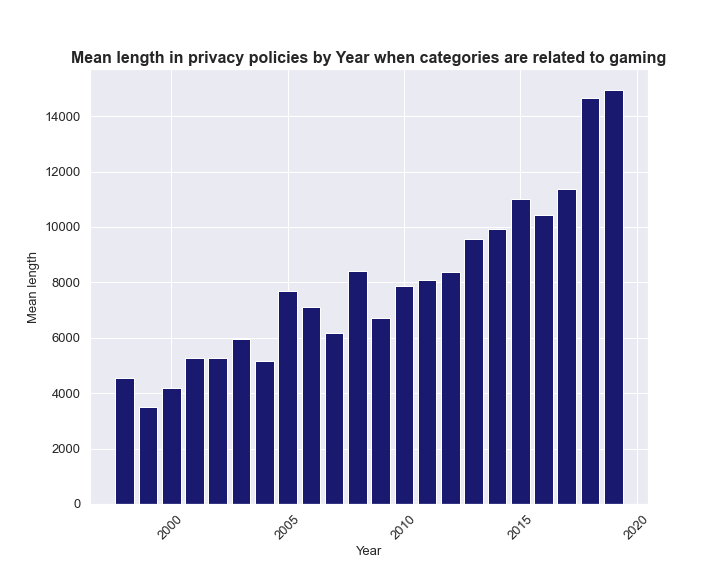
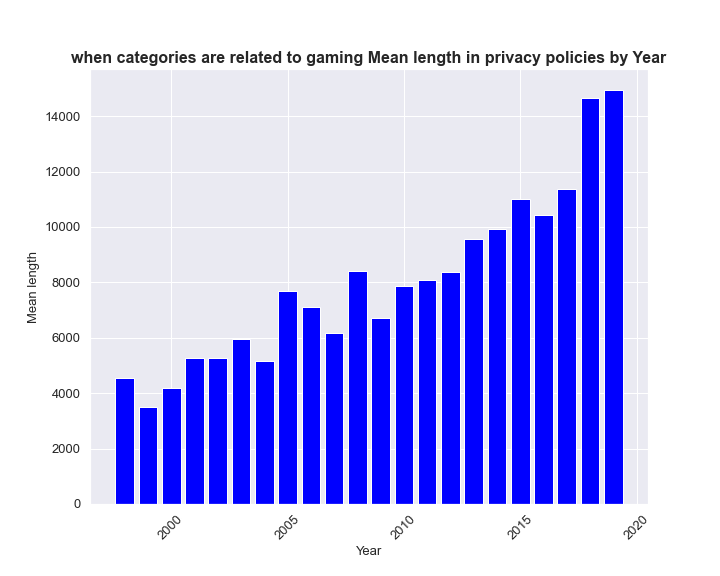
blue graphs (instead of midnight blue))

Changed region(s): [[0.1528, 0.1562, 0.8861, 0.875], [0.0917, 0.0938, 0.9472, 0.125]]

diff --git a/Group project 1.00.py b/Group project 1.00.py
@@ -47,7 +47,7 @@ def create_connection(db_file):
 def join1_sites__policy_snapshots(conn):
     #sites = pd.read_sql_query("SELECT id, categories from sites WHERE (categories LIKE '%social%' OR categories LIKE '%tech%' OR categories LIKE '%media%') AND  ( (categories LIKE '%sharing%')  OR  categories LIKE '%messageboard%' OR categories LIKE '%blogsandpersonal%') AND NOT categories LIKE '%news%'",conn)
     sites = pd.read_sql_query("SELECT id, categories from sites WHERE categories LIKE '%game%'",conn)
-  
+    SQLcategoryFilter="when categories are related to gaming"
     #sites = pd.read_sql_query("SELECT id, categories from sites WHERE (categories LIKE '%tech%' OR categories LIKE '%media%') AND ( (categories LIKE '%sharing%' AND  categories LIKE '%media%')) OR  (categories LIKE '%education%' AND  categories LIKE '%tech%')-- OR  categories LIKE '%messageboard%' OR categories LIKE '%blogsandpersonal%')", conn)#maybe requery and do .unique and rederfine categories
    #category selector
 #   and ( (categories LIKE '%sharing%' and  categories LIKE '%media%')) or  (categories LIKE '%education%' and   categories LIKE '%tech%')
@@ -76,7 +76,8 @@ def join1_sites__policy_snapshots(conn):
     del result['id']
     #del result['id_x']
     print('merge1 result\n',result.columns)
-    return(join2_result_policy_texts(conn,result))
+    return join2_result_policy_texts(conn,result), SQLcategoryFilter
+
 def join2_result_policy_texts(conn,result):
     #flesch_kincaid, smog,
     policy_texts = pd.read_sql_query("SELECT id, policy_text,   length from policy_texts", conn)
@@ -128,17 +129,17 @@ def DatabaseInterrogation():
       #  select_task_by_priority(conn, 1)
 
         print("2. Query all tasks")
-        result=join1_sites__policy_snapshots(conn)
-        return(result)
+        result, SQLcategoryFilter=join1_sites__policy_snapshots(conn)
+        return result, SQLcategoryFilter 
 
 
 if __name__ == '__main__':
-    result=DatabaseInterrogation()   
+    result, SQLcategoryFilter=DatabaseInterrogation()   
     print('Database processing complete')
         
     
 
-def MainCode(result):
+def MainCode(result,SQLcategoryFilter):
      """
      Query all rows in the tasks table
      :param conn: the Connection object
@@ -162,7 +163,7 @@ def MainCode(result):
      #nlp.groupby(nlp['year'].dt.year)['policy_text'].agg(['mean'])
      print('nlp',result['nlp'])
      #fieldnames.remove('year')
-     SQLcategoryFilter="when categories are related to gaming"
+     #SQLcategoryFilter="when categories are related to gaming"
 
     
      #working hashed for efficiency
@@ -214,12 +215,12 @@ def flesch_scores(result, SQLcategoryFilter):
      print(result['contain_easy'].head())
      makebarchart(result['year'],result.groupby(result.year)['contain_easy'].transform('mean')*100,'Year',
                   'Mean percentage of privacy policies that are easy or fairly_easy in difficulty to read (The fifth and sixth (lowest 2) most difficult measurement on scale)',SQLcategoryFilter)
-    
+     ''' 
      result['contain_confusing|difficult|fairly_difficult']=result.flesch_ease.str.count("confusing")+result.flesch_ease.str.count("difficult")
      print(result['contain_confusing|difficult|fairly_difficult'].head())
      makebarchart(result['year'],result.groupby(result.year)['contain_confusing|difficult|fairly_difficult'].transform('mean')*100,'Year',
                   'Mean percentage of privacy policies that contain confusing|difficult|fairly_difficult in difficulty to read (The fourth most difficult measurement on scale)',SQLcategoryFilter)
-
+'''
      del result['contain_confusing|difficult|fairly_difficult']
      del result['contain_fairly_difficult']
      del result['contain_standard']
@@ -236,9 +237,9 @@ def makebarchart(x,y,xlabel,ylabel,SQLcategoryfilter):
    plt.rcParams["figure.figsize"] = (10,8)
    plt.bar(x = x,
    height = y,
-   color = "midnightblue")
+   color = "blue")
 
-   titlelabel=str(ylabel)+' in privacy policies by '+str(xlabel)+' '+str(SQLcategoryfilter)#area in brackets in main title but not axis
+   titlelabel=str(SQLcategoryfilter)+' '+str(ylabel)+' in privacy policies by '+str(xlabel)#area in brackets in main title but not axis
    ref=0
    for i in range(0,len(ylabel)-1):
         if ylabel[i]=='(' and ref==0:
@@ -252,7 +253,7 @@ def makebarchart(x,y,xlabel,ylabel,SQLcategoryfilter):
    plt.title(titlelabel, fontsize = 16, fontweight = "bold")
    plt.xlabel(xlabel, fontsize = 13 )
    plt.ylabel(ylabel, fontsize = 13 )
-   savelabel=str(ylabel)+' in privacy policies by '+str(xlabel)+' '+str(SQLcategoryfilter)
+   savelabel=str(SQLcategoryfilter)+' '+str(ylabel)+' in privacy policies by '+str(xlabel)#+' '+str(SQLcategoryfilter)
    savelabel=savelabel[:47]+str('.png')
   # savelabel=str(titlelabel)+str('.png')
    plt.savefig(savelabel)
@@ -260,7 +261,7 @@ def makebarchart(x,y,xlabel,ylabel,SQLcategoryfilter):
    print(titlelabel+' Graph created')
 
 if __name__ == '__main__':
-    MainCode(result)
+    MainCode(result,SQLcategoryFilter)
     #create_connection(\"C:\\Users\\layto\\sqlite\")#
     
     
